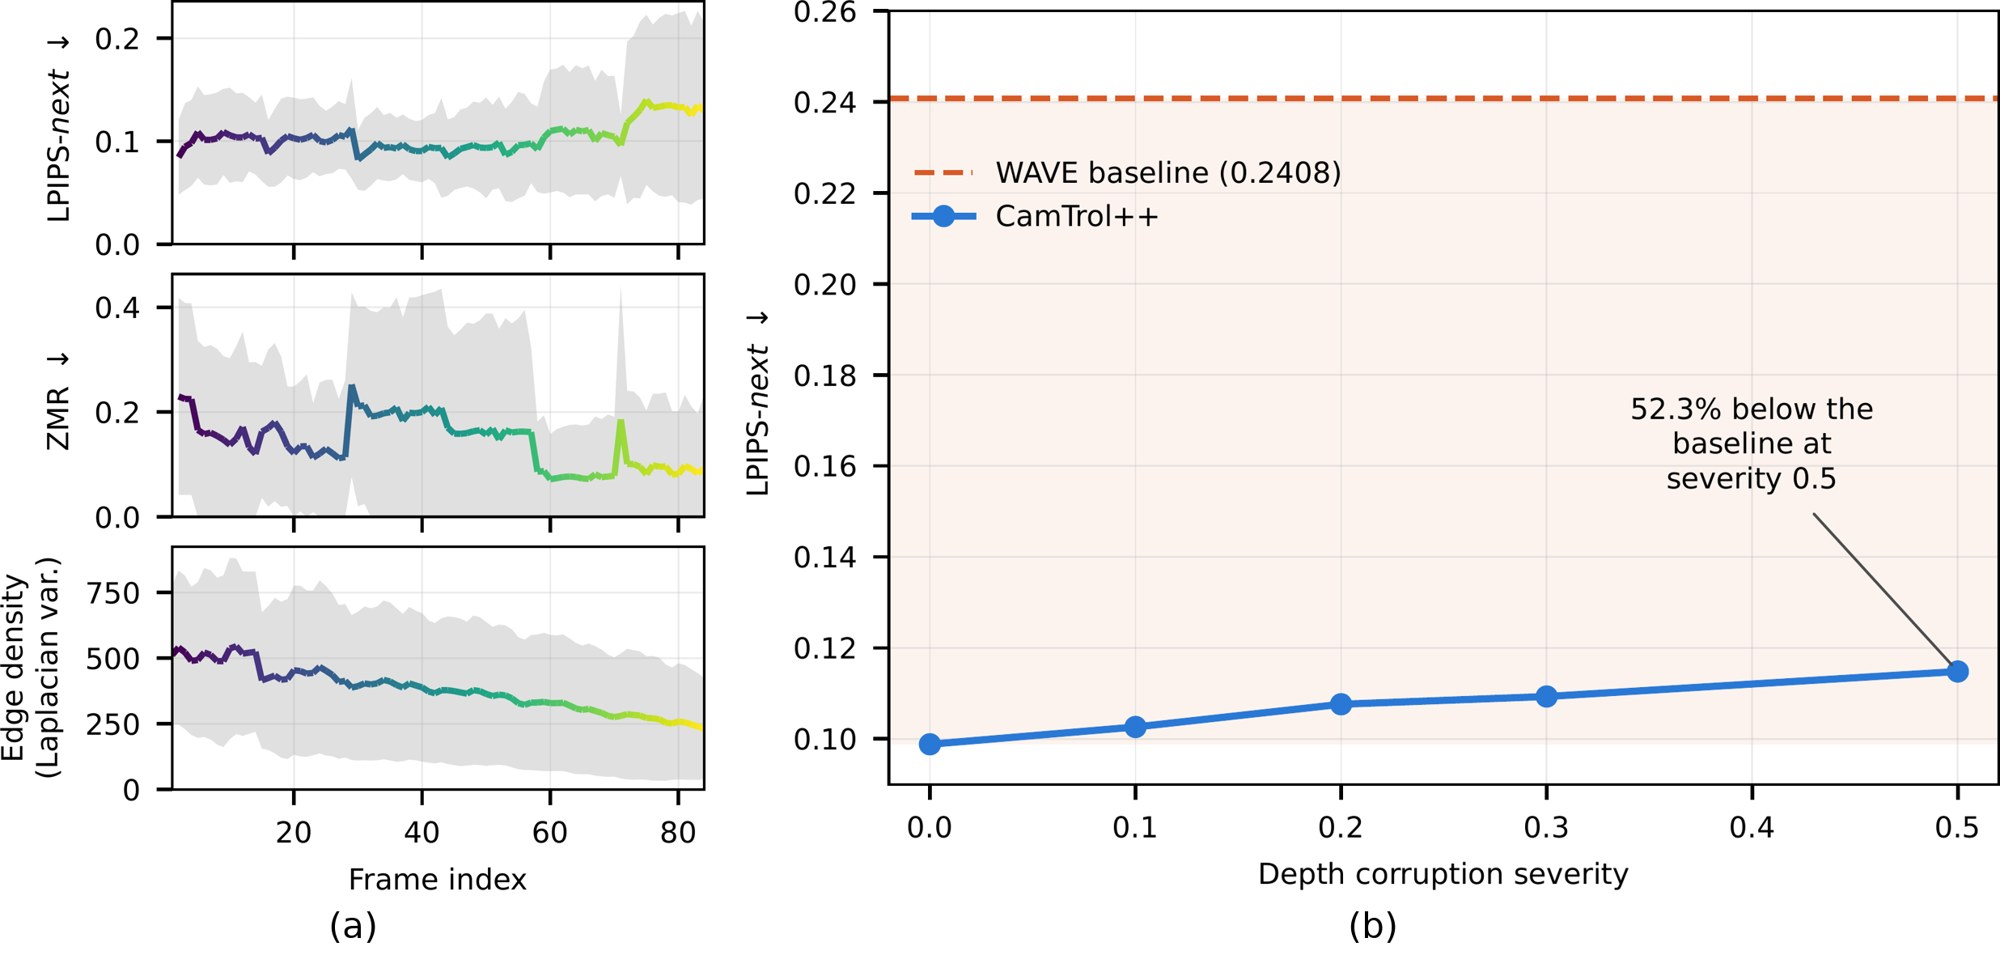
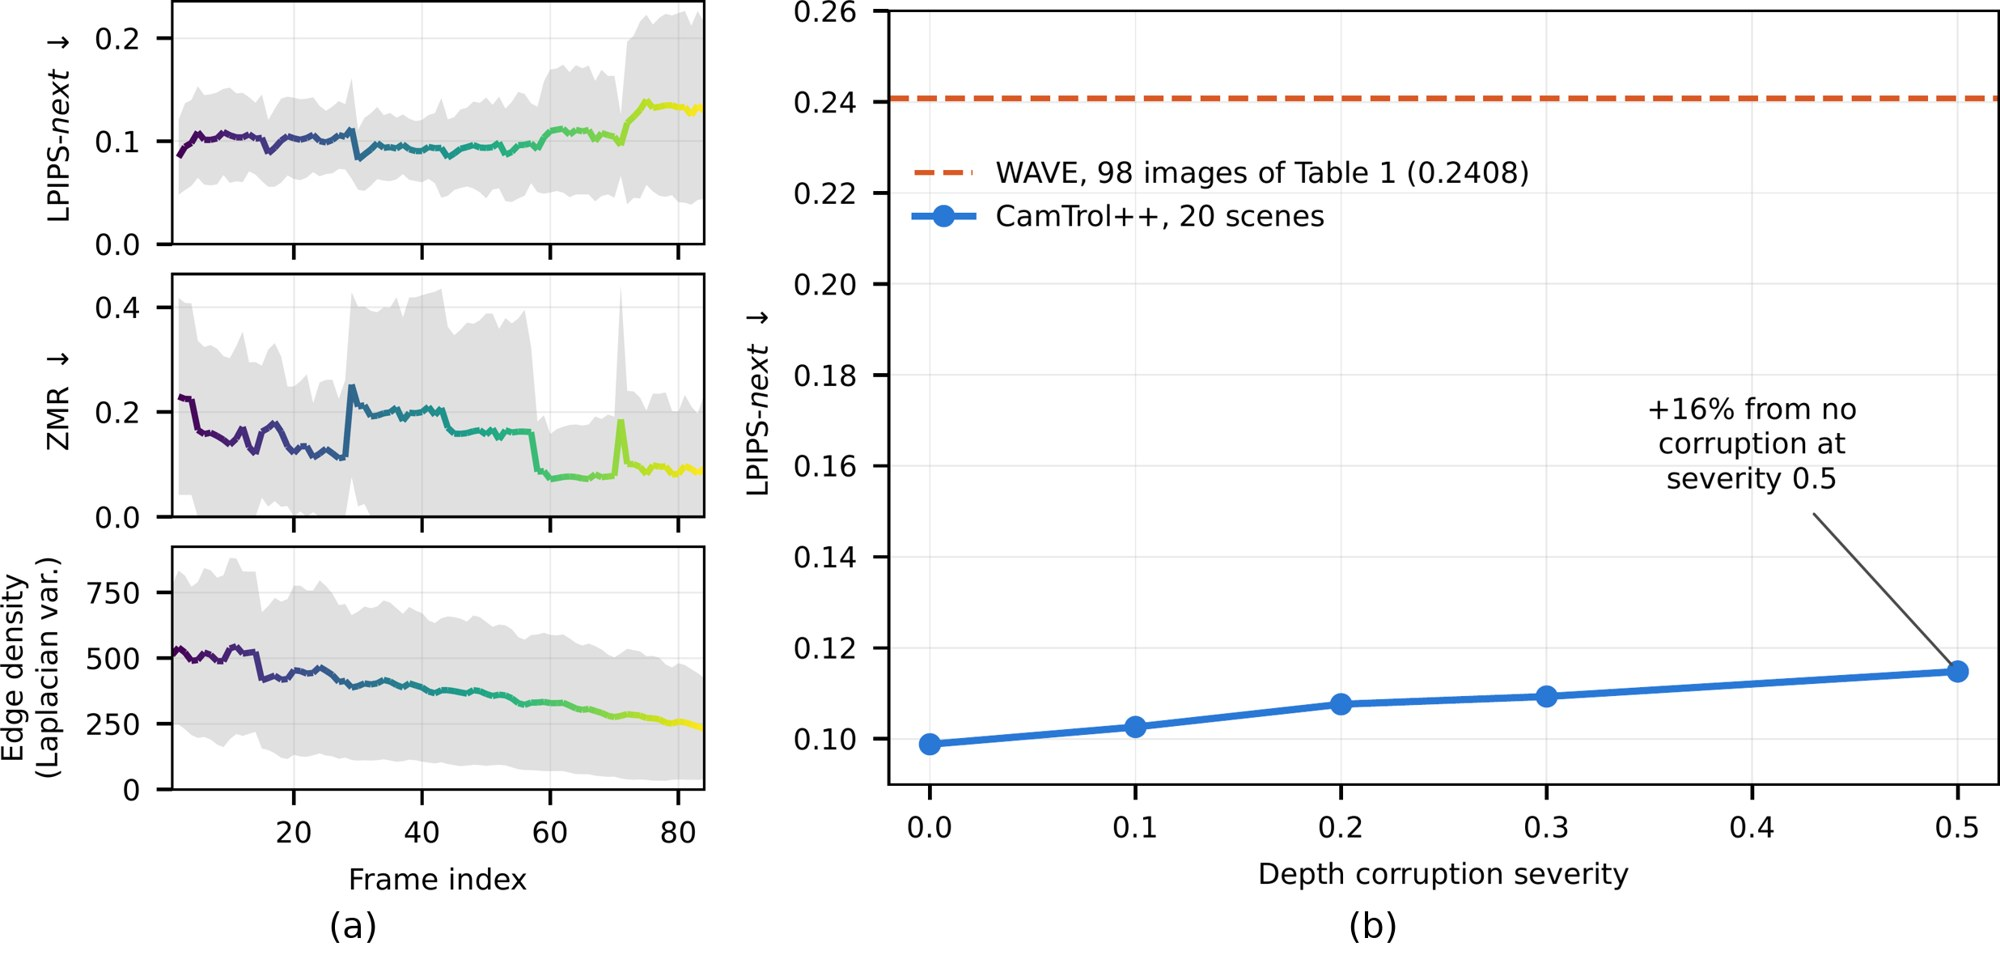
update code and page

Changed region(s): [[0.527, 0.1518, 0.775, 0.2429], [0.806, 0.3948, 0.93, 0.4859]]

diff --git a/index.html b/index.html
@@ -60,7 +60,7 @@
     <div class="stats">
       <div class="stat"><span class="num">2.86</span><span class="lbl">lowest epipolar error (EAE ×10<sup>-3</sup>) among CamTrol, NVS-Solver and WAVE</span></div>
       <div class="stat"><span class="num">19.25 dB</span><span class="lbl">best held-out 3DGS PSNR, all 20 sequences registered by COLMAP</span></div>
-      <div class="stat"><span class="num">3.4×</span><span class="lbl">faster than CamTrol with the same 15° passes</span></div>
+      <div class="stat"><span class="num">≥ 3.2×</span><span class="lbl">faster than CamTrol with the same 15° passes</span></div>
       <div class="stat"><span class="num">0</span><span class="lbl">training, the diffusion backbone stays frozen</span></div>
     </div>
   </div>
@@ -69,7 +69,7 @@
 <section id="abstract">
   <div class="wrap narrow">
     <h2>Abstract</h2>
-    <p>Training-free, camera-controlled novel view synthesis from a single image using pre-trained video diffusion models often becomes unstable under large camera motion and long generation horizons. Existing approaches commonly combine several inference-time components, making it unclear which design choices are most important for stability. This work identifies the amount of camera motion handled by each diffusion pass as the main factor. CamTrol++ splits the camera path into passes that each cover at most a fixed rotation and generates them one after another, so that every pass stays within the range of motion the backbone handles well. A matched study, in which every setting is scored on the same poses of the same 60° orbit, shows that geometric error grows steadily with the arc per pass, while a single pass both loses geometry and tends to freeze the camera. Under one shared camera path, CamTrol++ achieves the lowest epipolar error and the best held-out 3D Gaussian Splatting reconstruction among CamTrol, NVS-Solver and WAVE, and reaches the quality of CamTrol with the same pass structure 3.4× faster. On real RealEstate10K camera motion it matches CamTrol at half the run time. The same procedure also improves 3D reconstruction with a second video backbone, LTX-Video. Geometry-constrained spatial attention, colour anchoring at pass boundaries and a registration-free warping pipeline that makes warping 6× faster complete the framework. The method remains effective for 56-frame generation and under controlled depth corruption. These results show that careful control of camera motion at inference time can substantially improve the stability of camera-controlled novel view synthesis without retraining or modifying the diffusion backbone.</p>
+    <p>Training-free, camera-controlled novel view synthesis from a single image using pre-trained video diffusion models often becomes unstable under large camera motion and long generation horizons. Existing approaches commonly combine several inference-time components, making it unclear which design choices are most important for stability. This work identifies the amount of camera motion handled by each diffusion pass as the main factor. CamTrol++ splits the camera path into passes that each cover at most a fixed rotation and generates them one after another, so that every pass stays within the range of motion the backbone handles well. A matched study, in which every setting is scored on the same poses of the same 60° orbit, shows that geometric error grows steadily with the arc per pass, while a single pass both loses geometry and tends to freeze the camera. Under one shared camera path, CamTrol++ achieves the lowest epipolar error and the best held-out 3D Gaussian Splatting reconstruction among CamTrol, NVS-Solver and WAVE, and reaches the quality of CamTrol with the same pass structure at least 3.2× faster. On real RealEstate10K camera motion it matches CamTrol at half the run time. The same procedure also improves 3D reconstruction with a second video backbone, LTX-Video. Geometry-constrained spatial attention, colour anchoring at pass boundaries and a registration-free warping pipeline that makes warping 6× faster complete the framework. The method remains effective for 56-frame generation and under controlled depth corruption. These results show that careful control of camera motion at inference time can substantially improve the stability of camera-controlled novel view synthesis without retraining or modifying the diffusion backbone.</p>
   </div>
 </section>
 
@@ -153,7 +153,7 @@
       </div>
       <div class="chart" id="stepChart"></div>
       <p class="note" id="stepNote"></p>
-      <p class="note"><b>Why the arc matters.</b> On the same images, a 15° pass leaves 5.2% of each warped frame to the inpainter on average, against 32.5% for one 60° pass, and 64.6% of its last frame. A large arc hands the backbone frames that are mostly invented (Fig. S2 below).</p>
+      <p class="note"><b>Why the arc matters.</b> On the same images, a 15° pass leaves 5.2% of each warped frame to the inpainter on average, against 32.5% for one 60° pass, and 64.6% of its last frame. A large arc hands the backbone frames that are mostly invented (Fig. 11 below).</p>
     </div>
 
     <div class="tabs" id="stepTabs">
@@ -213,7 +213,7 @@
         <h4>Splitting helps every pipeline</h4>
         <p class="small">Held-out 3DGS PSNR with commanded poses and the number of sequences COLMAP registers in full, single pass against 15° passes.</p>
         <div class="split-list" id="splitList"></div>
-        <p class="small muted">MipNeRF360 (14 inputs): with 15° passes COLMAP registers 12 of 14 sequences against 3 of 14, and held-out SSIM rises from 0.317 to 0.444.</p>
+        <p class="small muted">MipNeRF360 (14 inputs): with 15° passes COLMAP registers 12 of 14 sequences against 3 of 14, held-out PSNR rises from 16.98 to 17.42 dB and SSIM from 0.317 to 0.444.</p>
       </div>
     </div>
 
@@ -228,7 +228,7 @@
         <h4>Components</h4>
         <p class="small">Added one at a time at 15° per pass, same scenes and poses. The last two rows are two placements of LAB anchoring, each added to the epipolar attention row. The highlighted row is the configuration used for CamTrol++ in every other result.</p>
         <div class="table-scroll"><table class="tbl compact" id="ablTable"></table></div>
-        <p class="small muted">Epipolar attention lowers EAE, Sampson distance and flicker at both step sizes. LAB anchoring at pass boundaries removes most colour drift and leaves geometry unchanged. Matching the inpainted frames as well gives the lowest colour drift at a small cost in EAE and Sampson distance, so boundary anchoring alone is a lighter variant with slightly lower geometric error. Against real RealEstate10K frames, boundary anchoring lowers the CIEDE2000 colour error from 9.53 to 8.97 and improves 39 of 44 clips.</p>
+        <p class="small muted">Epipolar attention lowers EAE, Sampson distance and flicker at both step sizes. LAB anchoring at pass boundaries removes most colour drift and leaves geometry unchanged. Matching the inpainted frames as well gives the lowest colour drift at a small cost in EAE and Sampson distance, so boundary anchoring alone is a lighter variant with slightly lower geometric error. In the full system the refinements leave geometry about where reprojection alone puts it, so the bound on the arc carries the geometric gain. Against real RealEstate10K frames, boundary anchoring lowers the CIEDE2000 colour error from 9.53 to 8.97 and improves 39 of 44 clips.</p>
       </div>
       <div class="card">
         <h4>Structured depth failures</h4>
@@ -250,7 +250,7 @@
 <section id="figures" class="alt">
   <div class="wrap">
     <h2>Figures from the paper</h2>
-    <p class="lead">The main figures of the current paper version, with the same numbering. S1 and S2 are from the supplementary material. Click a figure to open it at full size.</p>
+    <p class="lead">The main figures of the current paper version, with the same numbering. Figures 10 and 11 are from the appendix. Click a figure to open it at full size.</p>
     <div class="tabs" id="figTabs"></div>
     <figure class="card paper-fig">
       <a id="figLink" href="#" target="_blank" rel="noopener"><img id="figImg" alt="" loading="lazy"></a>

diff --git a/script.js b/script.js
@@ -63,8 +63,8 @@ const ABL = {
   rows: [
     ["Small-step reprojection", "0.125", "2.87", "5107", "2.63"],
     ["+ Epipolar attention", "0.122", "2.81", "4678", "2.49"],
-    ["+ LAB at pass boundaries only", "0.122", "2.80", "4537", "1.08"],
-    ["+ LAB at pass boundaries<br>and on inpainted frames (CamTrol++)", "0.124", "2.86", "4869", "1.04"],
+    ["+ LAB at boundaries only", "0.122", "2.80", "4537", "1.08"],
+    ["+ LAB at boundaries<br>and inpainted frames (CamTrol++)", "0.124", "2.86", "4869", "1.04"],
   ],
   ours: 3,
 };
@@ -415,9 +415,9 @@ const PAPER_FIGS = [
   ["6", "3D reconstruction and colour", "fig6_3dgs_lab.jpg", "<b>(a)</b> Held-out views of 3D Gaussian Splatting fitted to CamTrol++ frames. 15° passes give a clean reconstruction, one 60° pass gives streaks and floaters. <b>(b)</b> Last frame of two RealEstate10K clips without and with LAB matching at pass boundaries. Matching keeps the colours close to the input."],
   ["7", "Pass size on two backbones", "fig7_stepsize.jpg", "The same 60° orbit as four 15° passes or one 60° pass, with SVD and with LTX-Video (reprojection only). With 15° passes both backbones turn around the monument. With one pass SVD freezes and the facade melts, and LTX-Video fills new regions with noisy structures."],
   ["8", "Effect of step size", "fig8_step_size.jpg", "Every arc size follows the same 60° orbit and is scored on the same 14 poses of 20 scenes. Geometric error grows steadily with the arc, and only the single 60° pass freezes large parts of the image (high ZMR). LPIPS-next stays nearly flat. The yellow band marks the 15° default."],
-  ["9", "Long horizon and depth", "fig9_longhorizon_depth.jpg", "<b>(a)</b> LPIPS-next, ZMR and edge density over an 84-frame extension on 20 scenes. Consistency and motion stay stable, while detail slowly fades as the sequence grows. <b>(b)</b> LPIPS-next under synthetic depth corruption. Quality degrades gradually and stays 52.3% below the WAVE baseline at severity 0.5."],
-  ["S1", "Novel views on RealEstate10K", "figS1_re10k.jpg", "Input frame, real frame at a target pose and the view of each method for that pose. CamTrol++ matches the layout, colours and lighting of the real frame. CamTrol gives similar views on these short moves, while NVS-Solver and WAVE darken scenes and add clutter."],
-  ["S2", "Inpainted area against arc per pass", "figS2_inpainted_area.png", "Fraction of each warped frame handed to the inpainter, for the first pass of every setting of the step-size study, on 20 MegaScenes images with the same image, depth and poses. A 15° pass leaves 5.2% of each warped frame to the inpainter on average and 10.7% at its last frame, against 32.5% and 64.6% for one 60° pass. The area grows faster than the arc, which is why large passes lose geometry and freeze.", "560px"],
+  ["9", "Long horizon and depth", "fig9_longhorizon_depth.jpg", "<b>(a)</b> LPIPS-next, ZMR and edge density over an 84-frame extension on 20 scenes. Consistency and motion stay stable through the standard 56 frames, and detail then slowly fades. Detail loss is the most common failure (13 of 20 scenes). <b>(b)</b> LPIPS-next under synthetic depth corruption on 20 scenes. It rises by about 16%, from 0.099 to 0.115, at severity 0.5 and stays well below the WAVE reference from the larger set of Table 1."],
+  ["10", "Novel views on RealEstate10K", "figS1_re10k.jpg", "Input frame, real frame at a target pose and the view of each method for that pose. CamTrol++ matches the layout, colours and lighting of the real frame. CamTrol gives similar views on these short moves, while NVS-Solver and WAVE darken scenes and add clutter."],
+  ["11", "Inpainted area against arc per pass", "figS2_inpainted_area.png", "Fraction of each warped frame handed to the inpainter, for the first pass of every setting of the step-size study, on 20 MegaScenes images with the same image, depth and poses. A 15° pass leaves 5.2% of each warped frame to the inpainter on average and 10.7% at its last frame, against 32.5% and 64.6% for one 60° pass. The area grows faster than the arc, which is why large passes lose geometry and freeze.", "560px"],
 ];
 (function paperFigures() {
   const tabs = $("#figTabs"), img = $("#figImg"), cap = $("#figCap"), link = $("#figLink");
